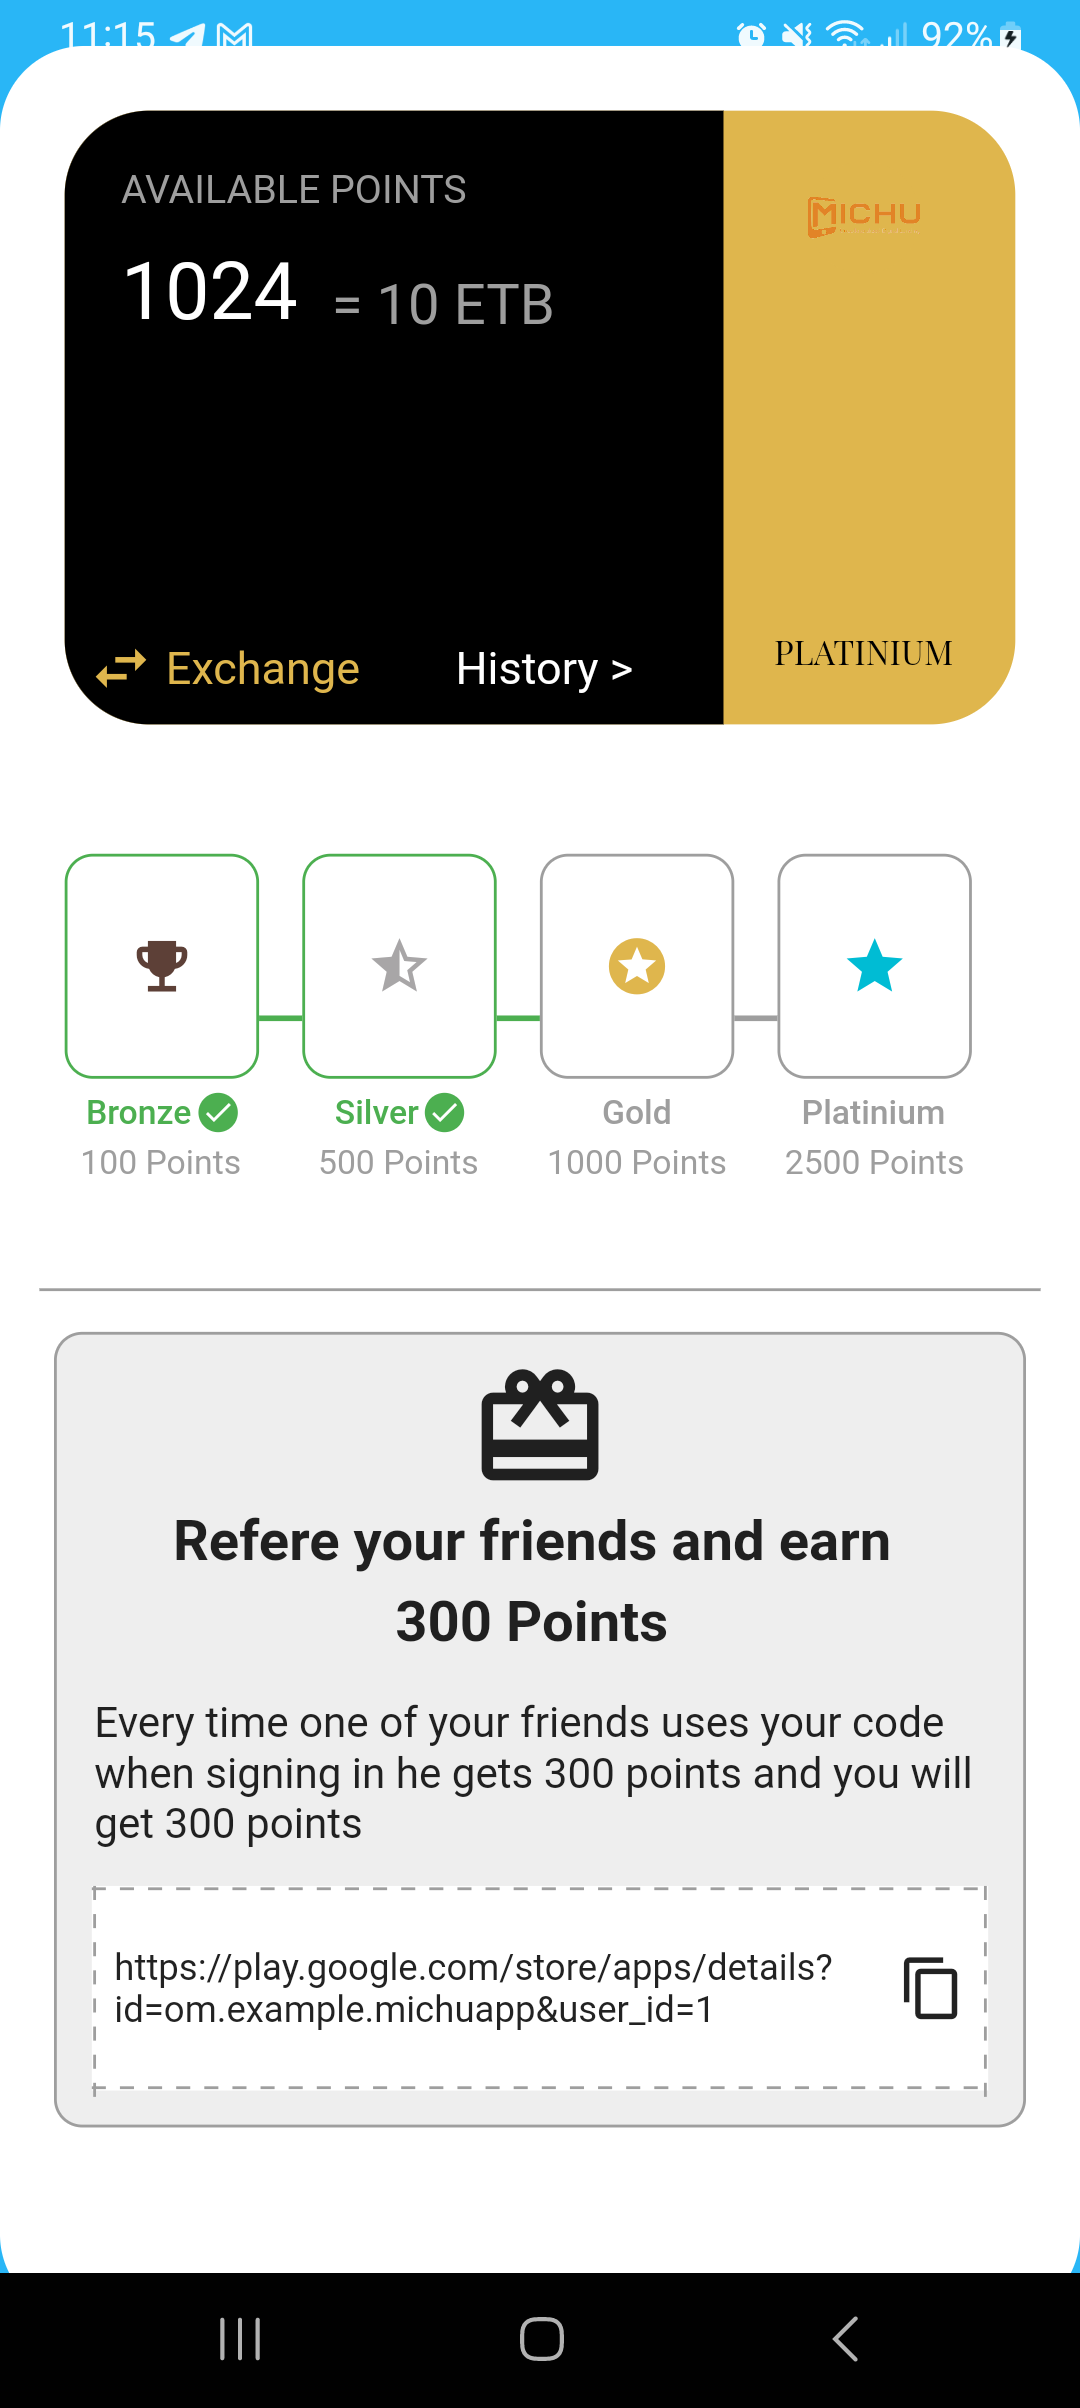
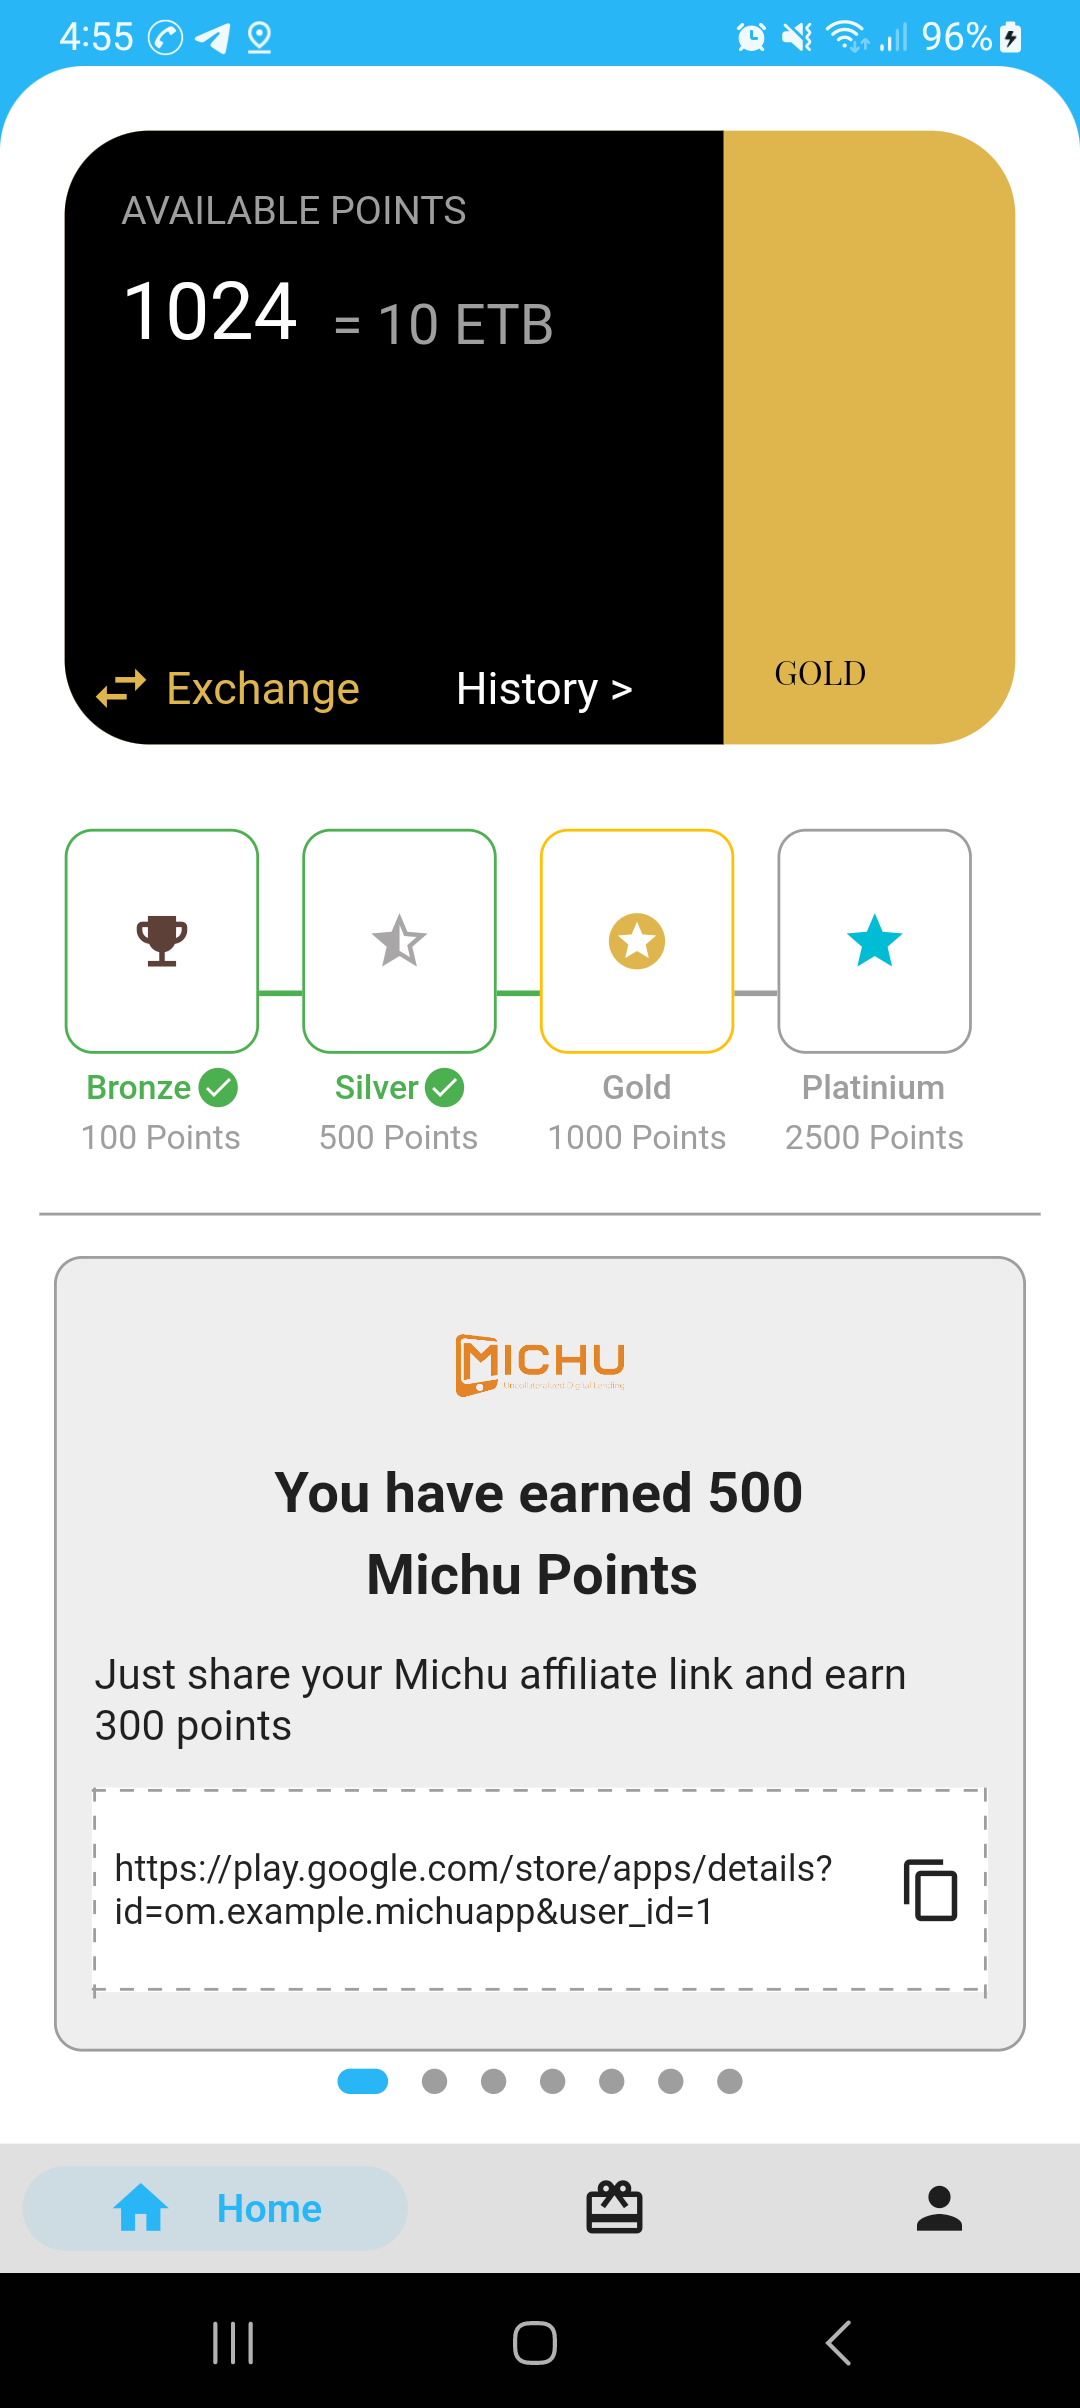
APK

diff --git a/lib/tabs/Home3.dart b/lib/tabs/Home3.dart
@@ -1,9 +1,11 @@
 // import 'package:flutter/foundation.dart';
+import 'package:dots_indicator/dots_indicator.dart';
 import 'package:flutter/material.dart';
 import 'package:flutter/services.dart';
 // import 'package:fluttertoast/fluttertoast.dart';
 import 'package:google_fonts/google_fonts.dart';
 import 'package:loyalty_app/colors.dart';
+import 'package:salomon_bottom_bar/salomon_bottom_bar.dart';
 
 class Home3 extends StatefulWidget {
   const Home3({super.key});
@@ -13,9 +15,64 @@ class Home3 extends StatefulWidget {
 }
 
 class _Home3State extends State<Home3> {
+  final PageController _controller = PageController();
+  var _currentIndex = 0;
+  final PageController _pageController = PageController();
+  double _currentPage = 0;
+  @override
+  void initState() {
+    super.initState();
+    _pageController.addListener(() {
+      setState(() {
+        _currentPage = _pageController.page!;
+      });
+    });
+  }
+
+  @override
+  void dispose() {
+    _pageController.dispose();
+    super.dispose();
+  }
+
   @override
   Widget build(BuildContext context) {
     return Scaffold(
+      bottomNavigationBar: SalomonBottomBar(
+        itemPadding: EdgeInsets.symmetric(vertical: 3, horizontal: 30),
+        backgroundColor: Colors.grey[300],
+        currentIndex: _currentIndex,
+        onTap: (i) => setState(() => _currentIndex = i),
+        items: [
+          /// Home
+          SalomonBottomBarItem(
+            icon: Icon(Icons.home),
+            title: Text("Home"),
+            selectedColor: Colors_selector.primaryColor,
+          ),
+
+          /// Likes
+          SalomonBottomBarItem(
+            icon: Icon(Icons.redeem_outlined),
+            title: Text("Redeem"),
+            selectedColor: Colors_selector.primaryColor,
+          ),
+
+          // /// Search
+          // SalomonBottomBarItem(
+          //   icon: Icon(Icons.search),
+          //   title: Text("Search"),
+          //   selectedColor: Colors_selector.primaryColor,
+          // ),
+
+          /// Profile
+          SalomonBottomBarItem(
+            icon: Icon(Icons.person),
+            title: Text("Profile"),
+            selectedColor: Colors_selector.primaryColor,
+          ),
+        ],
+      ),
       backgroundColor: Colors_selector.primaryColor,
       body: SingleChildScrollView(
         child: SafeArea(
@@ -23,20 +80,21 @@ class _Home3State extends State<Home3> {
             height: MediaQuery.of(context).size.height * 1,
             width: MediaQuery.of(context).size.width * 1,
             decoration: BoxDecoration(
-              gradient: LinearGradient(colors: [
-                Colors_selector.tertiaryColor,
-                Colors_selector.tertiaryColor
-              ], begin: Alignment.topLeft, end: Alignment.bottomRight),
-              borderRadius: const BorderRadius.only(
+                gradient: LinearGradient(colors: [
+                  Colors_selector.tertiaryColor,
+                  Colors_selector.tertiaryColor
+                ], begin: Alignment.topLeft, end: Alignment.bottomRight),
+                borderRadius: const BorderRadius.only(
                   topLeft: Radius.circular(30),
                   topRight: Radius.circular(30),
-                  bottomLeft: Radius.circular(30),
-                  bottomRight: Radius.circular(30)),
-            ),
+                )
+                // bottomLeft: Radius.circular(30),
+                // bottomRight: Radius.circular(30)),
+                ),
             child: Column(
               children: [
                 Padding(
-                  padding: const EdgeInsets.all(23),
+                  padding: const EdgeInsets.fromLTRB(23, 23, 23, 23),
                   child: Container(
                     height: MediaQuery.of(context).size.height * 0.27,
                     width: MediaQuery.of(context).size.width * 1,
@@ -168,22 +226,11 @@ class _Home3State extends State<Home3> {
                         children: [
                           Expanded(
                               child: Align(
-                                  alignment: Alignment.topRight,
-                                  child: Padding(
-                                      padding: const EdgeInsets.all(18.0),
-                                      child: CircleAvatar(
-                                        backgroundColor:
-                                            Color.fromRGBO(223, 182, 77, 1),
-                                        child: Image.asset(
-                                            "assets/images/michu.png"),
-                                      )))),
-                          Expanded(
-                              child: Align(
                                   alignment: Alignment.bottomCenter,
                                   child: Padding(
                                     padding: const EdgeInsets.all(18.0),
                                     child: Text(
-                                      "PLATINIUM",
+                                      "GOLD",
                                       style: GoogleFonts.playfairDisplay(
                                           color: Colors.black, fontSize: 12),
                                     ),
@@ -193,9 +240,8 @@ class _Home3State extends State<Home3> {
                     ]),
                   ),
                 ),
-
                 Padding(
-                  padding: const EdgeInsets.all(23.0),
+                  padding: const EdgeInsets.fromLTRB(23, 7, 23, 5),
                   child: Row(
                     children: [
                       Column(
@@ -318,7 +364,7 @@ class _Home3State extends State<Home3> {
                             width: MediaQuery.of(context).size.width * 0.18,
                             decoration: BoxDecoration(
                                 color: Colors.white,
-                                border: Border.all(color: Colors.grey),
+                                border: Border.all(color: Colors.amber),
                                 borderRadius: BorderRadius.circular(10)),
                             child: Center(
                               child: Icon(
@@ -429,100 +475,123 @@ class _Home3State extends State<Home3> {
                 Container(
                   height: MediaQuery.of(context).size.height * 0.35,
                   width: MediaQuery.of(context).size.width * 0.90,
-                  decoration: BoxDecoration(
-                      color: Colors.grey[200],
-                      border: Border.all(color: Colors.grey),
-                      borderRadius: BorderRadius.circular(10)),
-                  child: Column(
-                    children: [
-                      Padding(
-                        padding: EdgeInsets.fromLTRB(
-                          0,
-                          8,
-                          0,
-                          0,
-                        ),
-                        child: Icon(
-                          Icons.redeem,
-                          size: 50,
-                        ),
-                      ),
-                      Padding(
-                        padding: EdgeInsets.all(3.0),
-                        child: Text(
-                          "Refere your friends and earn ",
-                          style: GoogleFonts.roboto(
-                              fontSize: 20, fontWeight: FontWeight.w700),
-                        ),
-                      ),
-                      Padding(
-                        padding: EdgeInsets.all(3.0),
-                        child: Text("300 Points ",
-                            style: GoogleFonts.roboto(
-                                fontSize: 20, fontWeight: FontWeight.w700)),
-                      ),
-                      Padding(
-                        padding: EdgeInsets.all(13.0),
-                        child: Text(
-                            "Every time one of your friends uses your code when signing in he gets 300 points and you will get 300 points",
-                            style: GoogleFonts.roboto(fontSize: 15)),
-                      ),
-                      Container(
-                        width: MediaQuery.of(context).size.width * 0.83,
-                        height: MediaQuery.of(context).size.height * 0.09,
+                  child: PageView.builder(
+                    controller: _pageController,
+                    itemCount: 7,
+                    itemBuilder: (context, index) {
+                      return Container(
+                        height: MediaQuery.of(context).size.height * 0.35,
+                        width: MediaQuery.of(context).size.width * 0.90,
                         decoration: BoxDecoration(
-                          color: Colors.white,
-                        ),
-                        child: CustomPaint(
-                          painter: DashedBorderPainter(borderRadius: 1),
-                          child: Container(
-                            // This nested container will contain the content of your main container
-                            decoration: BoxDecoration(
-                              borderRadius: BorderRadius.circular(20),
+                            color: Colors.grey[200],
+                            border: Border.all(color: Colors.grey),
+                            borderRadius: BorderRadius.circular(10)),
+                        child: Column(
+                          children: [
+                            Padding(
+                              padding: EdgeInsets.fromLTRB(
+                                0,
+                                8,
+                                0,
+                                0,
+                              ),
+                              child: CircleAvatar(
+                                  backgroundColor: Colors.grey[200],
+                                  radius: 30,
+                                  child:
+                                      Image.asset("assets/images/ebirr.png")),
                             ),
-                            child: Row(
-                              children: [
-                                Padding(
-                                  padding:
-                                      const EdgeInsets.fromLTRB(8, 0, 0, 0),
-                                  child: Text(
-                                    "https://play.google.com/store/apps/details?\nid=om.example.michuapp&user_id=1",
-                                    style: GoogleFonts.roboto(
-                                      fontSize: 13,
-                                      letterSpacing: 0.0,
-                                    ),
-                                    softWrap: true,
+                            Padding(
+                              padding: EdgeInsets.all(3.0),
+                              child: Text(
+                                "You have earned 325",
+                                style: GoogleFonts.roboto(
+                                    fontSize: 20, fontWeight: FontWeight.w700),
+                              ),
+                            ),
+                            Padding(
+                              padding: EdgeInsets.all(3.0),
+                              child: Text("E-Birr Points ",
+                                  style: GoogleFonts.roboto(
+                                      fontSize: 20,
+                                      fontWeight: FontWeight.w700)),
+                            ),
+                            Padding(
+                              padding: EdgeInsets.all(13.0),
+                              child: Text(
+                                  "Just share your E-Birr affiliate link and earn 300 points ",
+                                  style: GoogleFonts.roboto(fontSize: 15)),
+                            ),
+                            Container(
+                              width: MediaQuery.of(context).size.width * 0.83,
+                              height: MediaQuery.of(context).size.height * 0.09,
+                              decoration: BoxDecoration(
+                                color: Colors.white,
+                              ),
+                              child: CustomPaint(
+                                painter: DashedBorderPainter(borderRadius: 1),
+                                child: Container(
+                                  // This nested container will contain the content of your main container
+                                  decoration: BoxDecoration(
+                                    borderRadius: BorderRadius.circular(20),
+                                  ),
+                                  child: Row(
+                                    children: [
+                                      Padding(
+                                        padding: const EdgeInsets.fromLTRB(
+                                            8, 0, 0, 0),
+                                        child: Text(
+                                          "https://play.google.com/store/apps/details?\nid=om.example.e-birrapp&user_id=1",
+                                          style: GoogleFonts.roboto(
+                                            fontSize: 13,
+                                            letterSpacing: 0.0,
+                                          ),
+                                          softWrap: true,
+                                        ),
+                                      ),
+                                      Expanded(
+                                        child: Align(
+                                            alignment: Alignment.centerRight,
+                                            child: Padding(
+                                              padding: EdgeInsets.fromLTRB(
+                                                  0, 0, 8, 0),
+                                              child: GestureDetector(
+                                                onTap: () {
+                                                  Clipboard.setData(
+                                                      const ClipboardData(
+                                                          text:
+                                                              "https://play.google.com/store/apps/details?\nid=om.example.michuapp&user_id=1"));
+                                                  // Fluttertoast.showToast(
+                                                  //     msg: "Copied to clipboard",
+                                                  //     fontSize: 18);
+                                                },
+                                                child: Icon(Icons.copy),
+                                              ),
+                                            )),
+                                      )
+                                    ],
                                   ),
                                 ),
-                                Expanded(
-                                  child: Align(
-                                      alignment: Alignment.centerRight,
-                                      child: Padding(
-                                        padding:
-                                            EdgeInsets.fromLTRB(0, 0, 8, 0),
-                                        child: GestureDetector(
-                                          onTap: () {
-                                            Clipboard.setData(const ClipboardData(
-                                                text:
-                                                    "https://play.google.com/store/apps/details?\nid=om.example.michuapp&user_id=1"));
-                                            // Fluttertoast.showToast(
-                                            //     msg: "Copied to clipboard",
-                                            //     fontSize: 18);
-                                          },
-                                          child: Icon(Icons.copy),
-                                        ),
-                                      )),
-                                )
-                              ],
-                            ),
-                          ),
+                              ),
+                            )
+                          ],
                         ),
-                      )
-                    ],
+                      );
+                    },
                   ),
                 ),
-                //   ),
-                // )
+                DotsIndicator(
+                  dotsCount: 7,
+                  position: _currentPage.toInt(),
+                  decorator: DotsDecorator(
+                    activeColor: Colors_selector.primaryColor,
+                    size: const Size.square(9.0),
+                    activeSize: const Size(18.0, 9.0),
+                    activeShape: RoundedRectangleBorder(
+                      borderRadius: BorderRadius.circular(5.0),
+                    ),
+                  ),
+                ),
               ],
             ),
           ),

diff --git a/lib/tabs/History.dart b/lib/tabs/History.dart
@@ -1,0 +1,24 @@
+import 'package:flutter/material.dart';
+import 'package:loyalty_app/colors.dart';
+
+class History extends StatefulWidget {
+  const History({super.key});
+
+  @override
+  State<History> createState() => _HistoryState();
+}
+
+class _HistoryState extends State<History> {
+  @override
+  Widget build(BuildContext context) {
+    return Scaffold(
+      backgroundColor: Colors_selector.primaryColor,
+      body: SingleChildScrollView(
+        child: SafeArea(
+            child: Container(
+          child: Column(children: []),
+        )),
+      ),
+    );
+  }
+}
